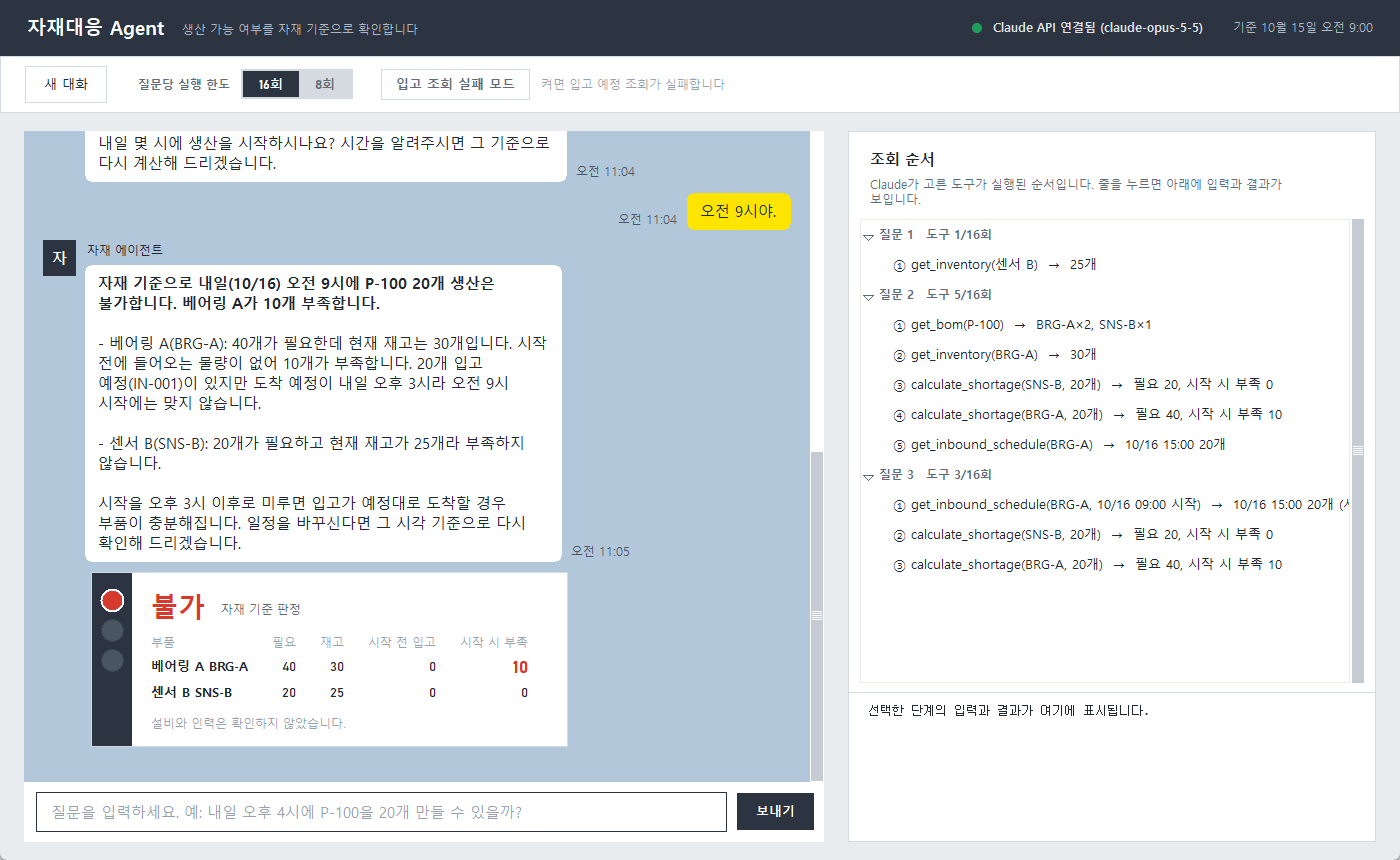
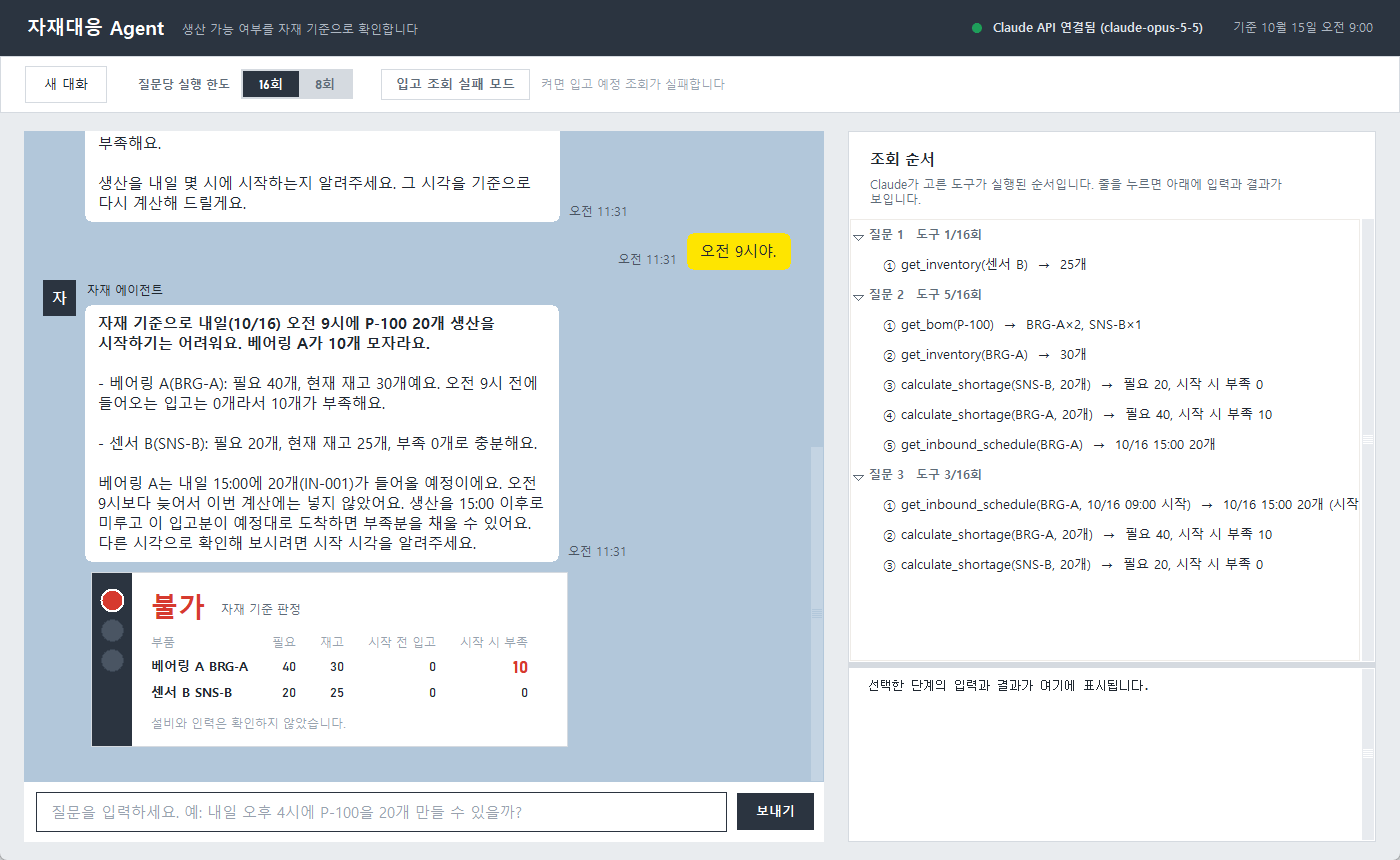
feat: resizable trace/detail split and faint scrollbars

Changed region(s): [[0.43, 0.1512, 0.9829, 0.8465], [0.0307, 0.1512, 0.4607, 0.6349], [0.3993, 0.6349, 0.4607, 0.6651]]

diff --git a/app.py b/app.py
@@ -45,6 +45,13 @@ LIMIT_CHOICES = ("16", "8")
 CIRCLED = "①②③④⑤⑥⑦⑧⑨⑩⑪⑫⑬⑭⑮⑯⑰⑱⑲⑳"
 
 
+def color_distance(a: str, b: str) -> float:
+    """두 #RRGGBB 색의 RGB 거리 (스크롤바가 배경과 얼마나 가까운지 확인용)."""
+    ca = [int(a[i:i + 2], 16) for i in (1, 3, 5)]
+    cb = [int(b[i:i + 2], 16) for i in (1, 3, 5)]
+    return sum((x - y) ** 2 for x, y in zip(ca, cb)) ** 0.5
+
+
 class Fonts:
     def __init__(self, root: tk.Misc):
         families = set(tkfont.families(root))
@@ -246,12 +253,16 @@ class MaterialApp(tk.Frame):
         style.configure("Trace.Treeview", background=SURFACE, fieldbackground=SURFACE, foreground=TEXT,
                         bordercolor=SURFACE, rowheight=30, font=f.body, indent=14)
         style.map("Trace.Treeview", background=[("selected", FLOOR)], foreground=[("selected", TEXT)])
-        style.layout("Slim.Vertical.TScrollbar",
-                     [("Vertical.Scrollbar.trough", {"sticky": "ns",
-                       "children": [("Vertical.Scrollbar.thumb", {"expand": "1", "sticky": "nswe"})]})])
-        style.configure("Slim.Vertical.TScrollbar", troughcolor=SURFACE, background="#C4CBD3",
-                        bordercolor=SURFACE, lightcolor="#C4CBD3", darkcolor="#C4CBD3", width=8)
-        style.map("Slim.Vertical.TScrollbar", background=[("active", FAINT)])
+        # 스크롤바: Tk는 투명도를 지원하지 않으므로 막대를 배경과 거의 같은 옅은 색·좁은 폭으로 그려
+        # 투명해 보이게 하고, 마우스를 올렸을 때만 진하게 한다. (흰 영역용 Slim, 하늘색 대화창용 Chat)
+        for name, trough, thumb, active in (("Slim.Vertical.TScrollbar", SURFACE, "#E8EBEF", "#B9C1CA"),
+                                            ("Chat.Vertical.TScrollbar", CHAT_BG, "#C4D4E3", "#8FA9C2")):
+            style.layout(name, [("Vertical.Scrollbar.trough", {"sticky": "ns", "children": [
+                ("Vertical.Scrollbar.thumb", {"expand": "1", "sticky": "nswe"})]})])
+            style.configure(name, troughcolor=trough, background=thumb, bordercolor=trough,
+                            lightcolor=thumb, darkcolor=thumb, width=6)
+            style.map(name, background=[("active", active)], lightcolor=[("active", active)],
+                      darkcolor=[("active", active)])
 
     def _build_header(self):
         f = self.fonts
@@ -334,7 +345,7 @@ class MaterialApp(tk.Frame):
 
         self.chat = tk.Text(left, wrap="word", font=f.chat, state="disabled", padx=14, pady=14,
                             bg=CHAT_BG, fg=TEXT, relief="flat", highlightthickness=0, cursor="arrow")
-        scroll = ttk.Scrollbar(left, command=self.chat.yview, style="Slim.Vertical.TScrollbar")
+        scroll = ttk.Scrollbar(left, command=self.chat.yview, style="Chat.Vertical.TScrollbar")
         self.chat.configure(yscrollcommand=scroll.set)
         scroll.pack(side="right", fill="y")
         self.chat.pack(side="left", fill="both", expand=True)
@@ -347,8 +358,12 @@ class MaterialApp(tk.Frame):
         tk.Label(right, text="Claude가 고른 도구가 실행된 순서입니다. 줄을 누르면 아래에 입력과 결과가 보입니다.",
                  bg=SURFACE, fg=MUTED, font=f.small, wraplength=420, justify="left").pack(anchor="w", padx=18,
                                                                                          pady=(2, 8))
-        tree_box = tk.Frame(right, bg=SURFACE)
-        tree_box.pack(fill="both", expand=True, padx=10)
+        # 조회 순서(위)와 원문(아래)은 가운데 경계선을 끌어 높이를 조절한다
+        self.right_panes = tk.PanedWindow(right, orient="vertical", bg=RULE, bd=0, sashwidth=6,
+                                          sashrelief="flat", sashcursor="sb_v_double_arrow", showhandle=False)
+        self.right_panes.pack(fill="both", expand=True)
+        tree_box = tk.Frame(self.right_panes, bg=SURFACE, padx=0)  # 스크롤바를 오른쪽 끝에 붙여 아래 원문 칸과 맞춘다
+        self.right_panes.add(tree_box, minsize=120, stretch="always", height=380)
         self.tool_tree = ttk.Treeview(tree_box, show="tree", selectmode="browse", style="Trace.Treeview")
         tree_scroll = ttk.Scrollbar(tree_box, command=self.tool_tree.yview, style="Slim.Vertical.TScrollbar")
         self.tool_tree.configure(yscrollcommand=tree_scroll.set)
@@ -358,10 +373,15 @@ class MaterialApp(tk.Frame):
         self.tool_tree.tag_configure("group", font=f.small_bold, foreground=MUTED)
         self.tool_tree.bind("<<TreeviewSelect>>", lambda _e: self._show_detail())
 
-        tk.Frame(right, bg=RULE, height=1).pack(fill="x", pady=(8, 0))
-        self.detail = tk.Text(right, wrap="none", font=f.mono, height=9, state="disabled", bg=SURFACE,
+        detail_box = tk.Frame(self.right_panes, bg=SURFACE)
+        self.right_panes.add(detail_box, minsize=100, stretch="always")
+        self.detail = tk.Text(detail_box, wrap="none", font=f.mono, height=9, state="disabled", bg=SURFACE,
                               fg=TEXT, relief="flat", padx=18, pady=10)
-        self.detail.pack(fill="x")
+        self.detail_scroll = ttk.Scrollbar(detail_box, orient="vertical", command=self.detail.yview,
+                                           style="Slim.Vertical.TScrollbar")
+        self.detail.configure(yscrollcommand=self.detail_scroll.set)
+        self.detail_scroll.pack(side="right", fill="y")
+        self.detail.pack(side="left", fill="both", expand=True)
         self._set_text(self.detail, "선택한 단계의 입력과 결과가 여기에 표시됩니다.")
 
     def _configure_chat_tags(self):

diff --git a/tests/test_app.py b/tests/test_app.py
@@ -1,5 +1,6 @@
 """tkinter 데모 앱 테스트 — 가짜 에이전트 사용."""
 import tkinter as tk
+from tkinter import ttk
 
 import pytest
 
@@ -260,3 +261,49 @@ def test_agent_lines_separated_by_blank_line(root):
     assert gap >= tkfont.Font(font=app.fonts.chat).metrics("linespace") * 0.8
     app._append_message("나", "오전 9시야", "user")
     assert app.user_bubbles[-1].line_gap < app.agent_bubbles[-1].line_gap
+
+
+def test_trace_and_detail_split_is_resizable(root):
+    app = make_app(root, FakeAgent())
+    panes = app.right_panes
+    assert str(panes["orient"]) == "vertical" and len(panes.panes()) == 2
+
+
+def test_detail_has_vertical_scrollbar(root):
+    app = make_app(root, FakeAgent())
+    assert str(app.detail_scroll["orient"]) == "vertical"
+    assert app.detail["yscrollcommand"] != ""
+    assert app.detail.pack_info()["expand"] in (1, True, "1")
+
+
+def test_right_scrollbars_aligned(root):
+    app = make_app(root, FakeAgent())
+    app.pack(fill="both", expand=True)
+    root.deiconify()
+    root.geometry("1400x880")
+    root.update()
+    assert app.detail_scroll.winfo_ismapped() and app.detail_scroll.winfo_width() > 1
+    tree_sb = [w for w in app.tool_tree.master.winfo_children() if isinstance(w, ttk.Scrollbar)][0]
+    right_edge = lambda w: w.winfo_rootx() + w.winfo_width()
+    assert right_edge(tree_sb) == right_edge(app.detail_scroll)
+    assert tree_sb.winfo_rootx() == app.detail_scroll.winfo_rootx()
+    root.withdraw()
+
+
+def test_scrollbars_are_faint(root):
+    import app as app_module
+    app = make_app(root, FakeAgent())
+    style = ttk.Style(app)
+    for name, trough in (("Slim.Vertical.TScrollbar", app_module.SURFACE),
+                                          ("Chat.Vertical.TScrollbar", app_module.CHAT_BG)):
+        thumb = style.lookup(name, "background")
+        assert style.lookup(name, "troughcolor") == trough
+        assert app_module.color_distance(thumb, trough) < 40   # 배경과 거의 같은 옅은 막대
+        assert int(style.lookup(name, "width")) <= 6
+
+
+
+def test_chat_uses_chat_scrollbar_style(root):
+    app = make_app(root, FakeAgent())
+    chat_sb = [w for w in app.chat.master.winfo_children() if isinstance(w, ttk.Scrollbar)][0]
+    assert str(chat_sb["style"]) == "Chat.Vertical.TScrollbar"

diff --git a/process.md b/process.md
@@ -18,3 +18,4 @@
 | 2026-10-15 | feat: andon-style UI redesign (frontend-design) | frontend-design 스킬 설치 후 디자인 방향을 정해 화면 개선: 판정 카드를 공장 라인 안돈 신호등(빨강·주황·초록 중 한 칸만 점등, 확인 불가는 모두 꺼짐)으로, 강철색 헤더·작업장 바닥색 배경·흰 조작 줄, 수량·판정은 Bahnschrift 글꼴, 오른쪽 "조회 순서"는 ①②③ 번호와 짧은 입력 표시(시각은 10/16 09:00 시작), 입력칸 테두리와 안내 문구, 가운뎃점 나열·군더더기 문구 정리. 카톡형 대화창은 유지. README 화면 설명·스크린샷 갱신. 테스트 92개 통과 |
 | 2026-10-15 | feat: blank-line spacing between agent answer lines | 에이전트 답변 말풍선에서 줄(문장·목록 항목) 사이를 빈 줄 하나만큼 띄워 가독성 개선(자동 줄바꿈된 부분은 그대로). 내 메시지는 기존 간격 유지. README 스크린샷 갱신. 테스트 93개 통과 |
 | 2026-10-15 | docs: refresh README screenshots | README 화면 캡처 2장 다시 촬영(줄 간격 적용 후 실제 API 실행 화면: 오전 9시 불가, 입고 조회 실패 확인 불가) |
+| 2026-10-15 | feat: resizable trace/detail split and faint scrollbars | 오른쪽 조회 순서와 입력·결과 원문 사이 경계선을 끌어 높이 조절, 원문 칸에 세로 스크롤바 추가(내용이 많으면 잘리던 문제). 대화창·조회 순서·원문의 스크롤바를 배경과 거의 같은 옅은 색·좁은 폭으로 바꾸고 마우스를 올리면 진해지게 함(대화창은 하늘색 배경용 색). 조회 순서와 원문 스크롤바를 오른쪽 끝 같은 위치로 정렬. README 스크린샷 갱신. 테스트 98개 통과 |
